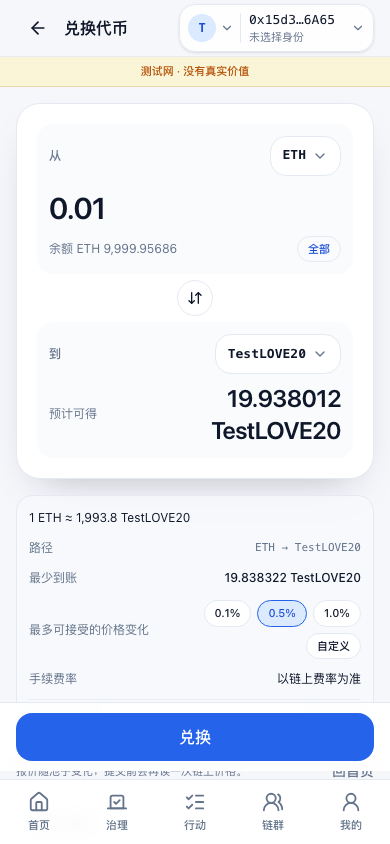
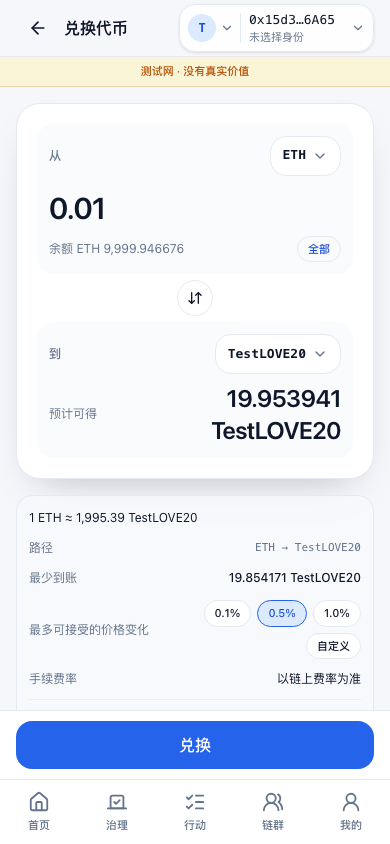
fix(ui): 修复移动端主操作浮层透底与底部缝隙
- StickyAction 改为不透明 bg-surface，锚定视口底部并用 --bottom-navigation-height 预留标签栏与安全区，背景延伸到标签栏后方；顶部保留 1px border-line 作为轻分隔。
- 清除 space-y-* 施加在固定浮层上的 margin-bottom（固定定位会把 margin 从 bottom 中扣除），消除兑换页 8px、铸造页 12px 的缝隙。
- md+ 维持静态文档流、透明无边框，桌面布局不变。
- 重新生成 390×844 的 swap-form / mint-form / airdrop-eligible 截图。

验证：typecheck/lint/test/build 通过；首屏 159.2 kB gzip（≤160）；e2e 32/32。

diff --git a/src/shared/ui/sticky-action.tsx b/src/shared/ui/sticky-action.tsx
@@ -11,10 +11,16 @@ export interface StickyActionProps {
  *
  * It pins the page's single primary CTA directly above the mobile tab bar
  * (`--bottom-navigation-height` already includes the safe-area inset) while the
- * page scrolls behind it. On md+ the same children stay in the normal flow next
- * to the card, so desktop layout is unchanged. The app shell reserves
- * `--sticky-action-height` at the bottom of the scroll container, so content
- * under the dock is always reachable.
+ * page scrolls behind it. The dock is anchored to the viewport bottom and pads
+ * itself by the tab-bar height, so its opaque surface also runs behind the tab
+ * bar and the safe area: no page content can show through the seam. On md+ the
+ * same children stay in the normal flow next to the card, so desktop layout is
+ * unchanged. The app shell reserves `--sticky-action-height` at the bottom of
+ * the scroll container, so content under the dock is always reachable.
+ *
+ * The `max-md:mb-0` matters: these pages place the dock inside `space-y-*`
+ * sections, and a fixed element's margins are subtracted from `bottom`, which
+ * would otherwise lift the dock off the tab bar by the row gap.
  *
  * States that replace the CTA (receipt sheets, insufficient-funds branch,
  * disconnected cards) return before this component, so the dock never
@@ -24,8 +30,9 @@ export function StickyAction({ children, className }: StickyActionProps) {
   return (
     <div
       className={cn(
-        'fixed inset-x-0 bottom-[var(--bottom-navigation-height)] z-30 border-t border-line bg-surface/95 backdrop-blur',
-        'md:static md:z-auto md:border-0 md:bg-transparent md:backdrop-blur-none',
+        'fixed inset-x-0 bottom-0 z-30 border-t border-line bg-surface pb-[var(--bottom-navigation-height)]',
+        'max-md:mb-0',
+        'md:static md:z-auto md:border-0 md:bg-transparent md:pb-0',
         className,
       )}
     >
